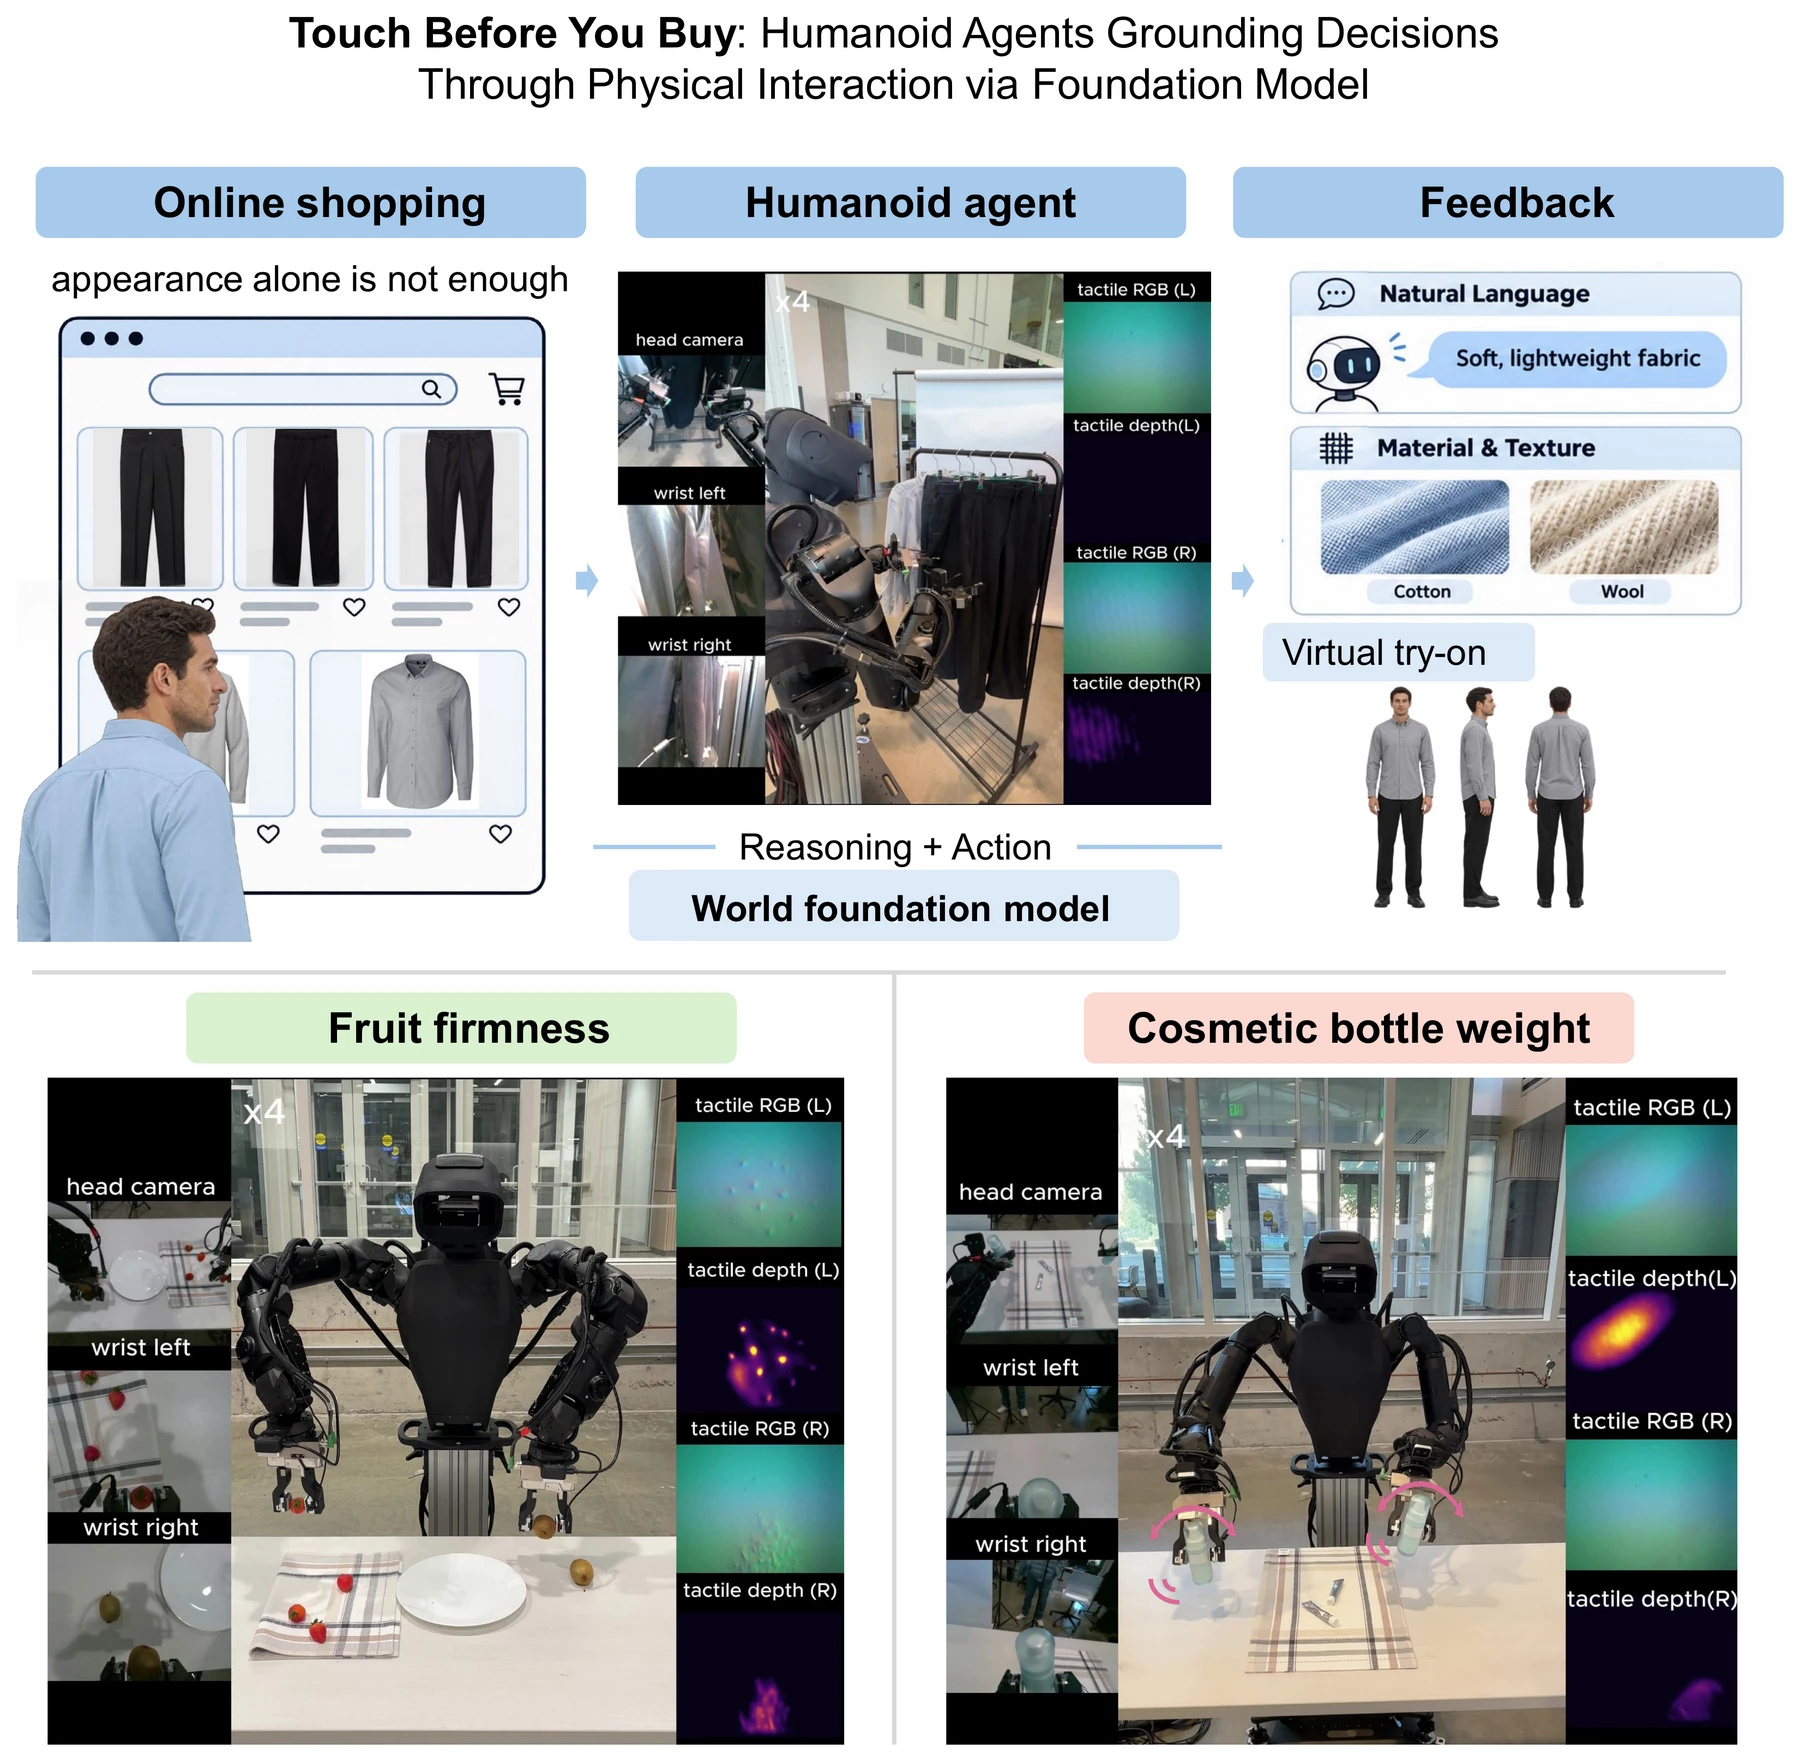
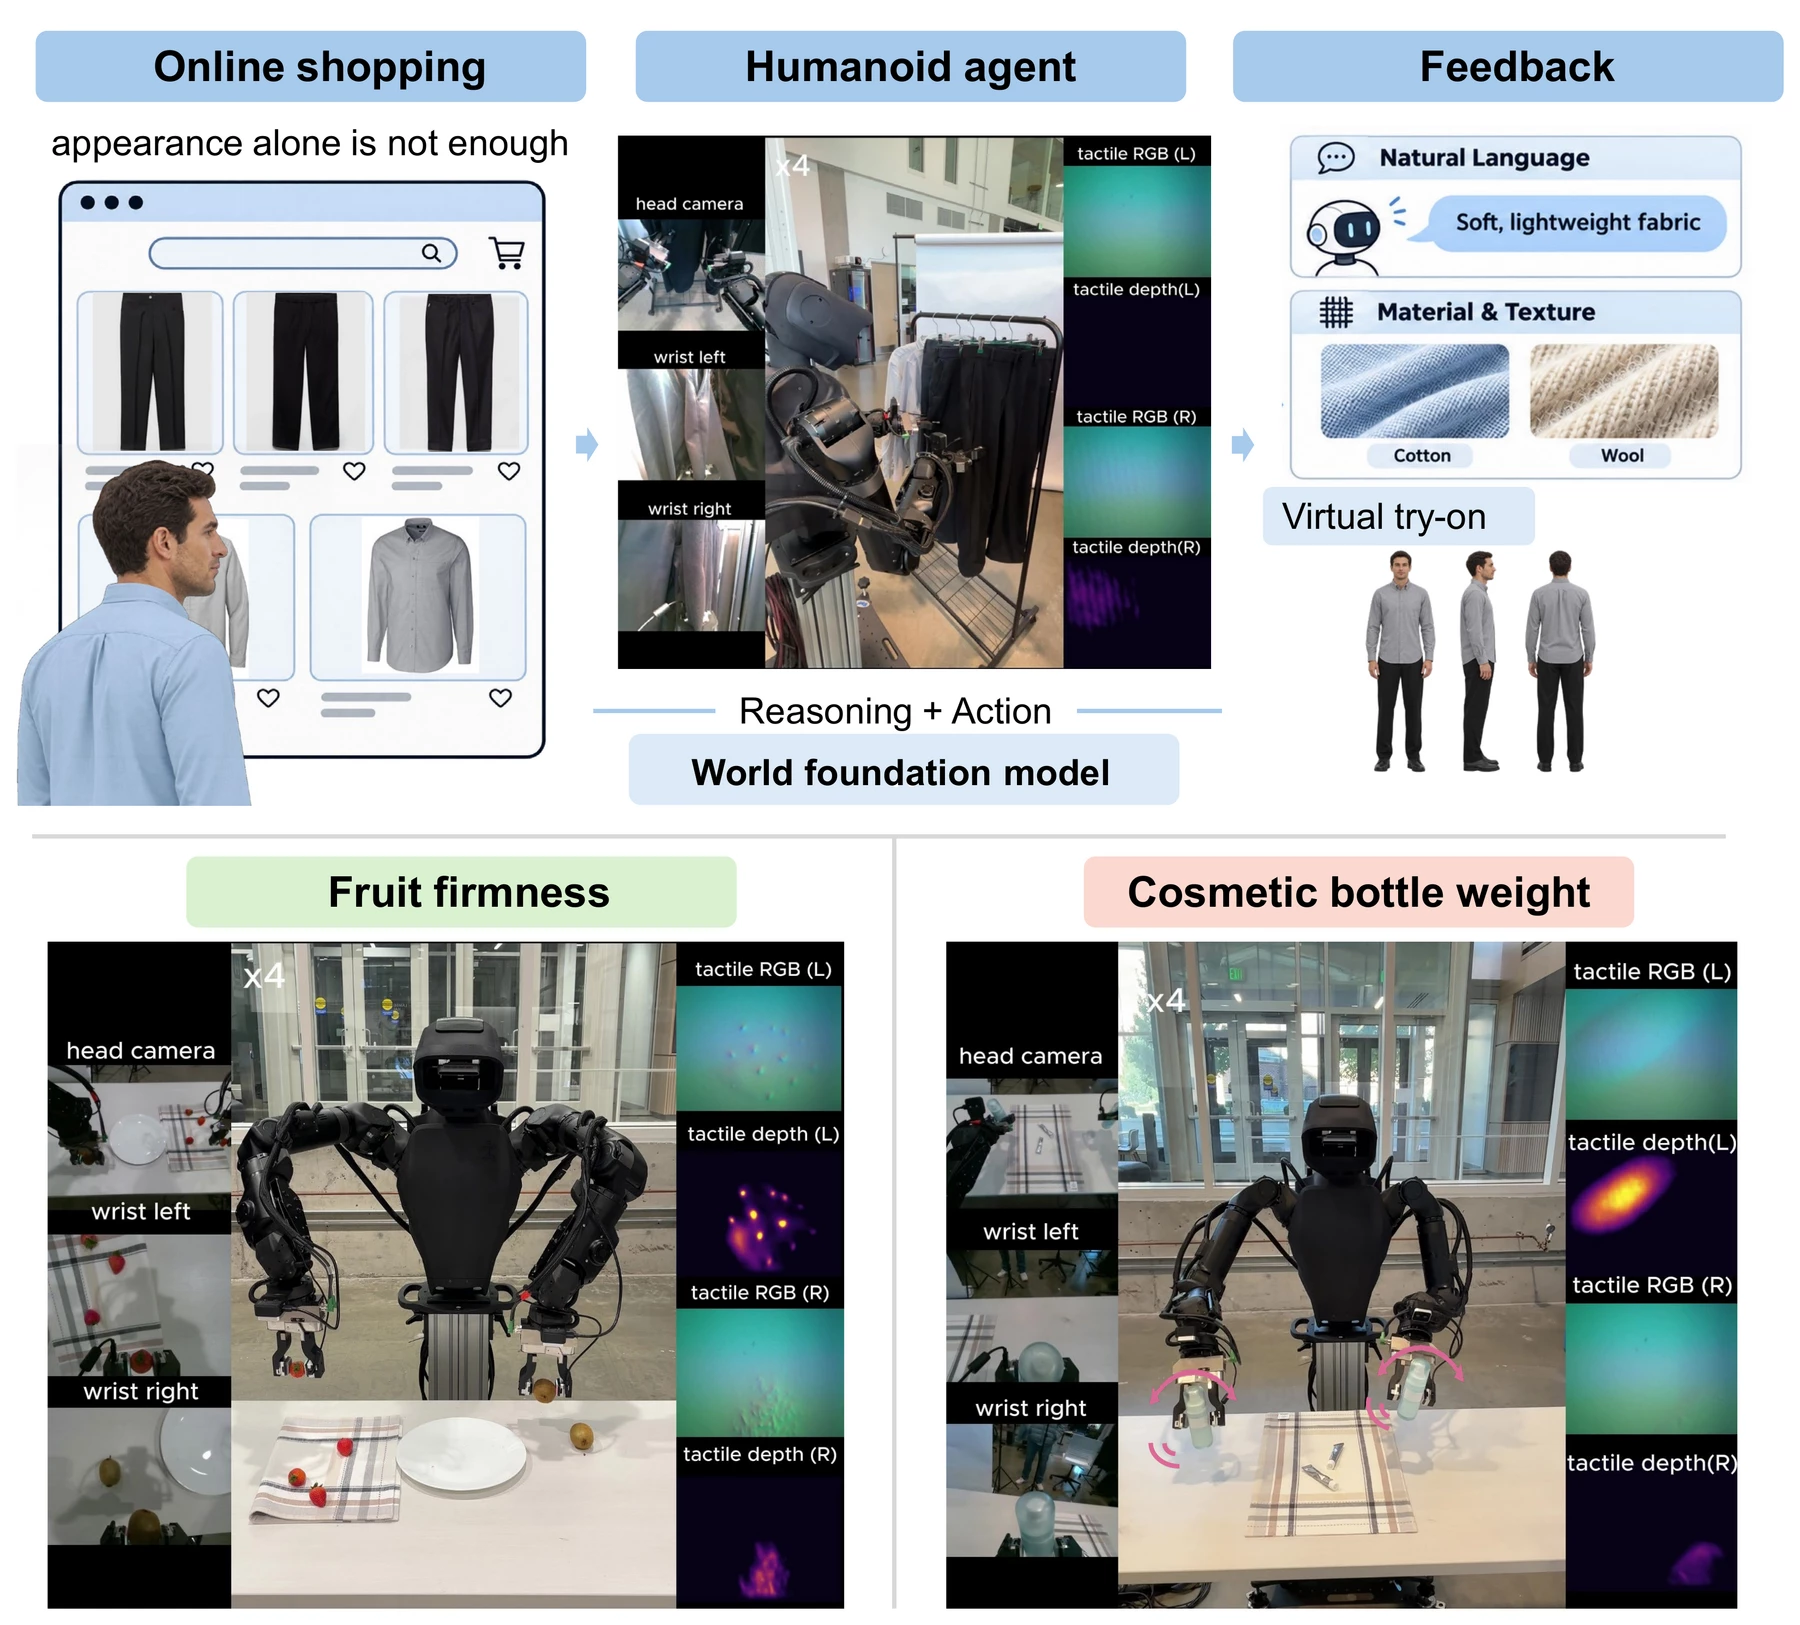
Show title as text, crop it from figure, link Yicong Wang
- Cut the title strip off the main figure image and show the title as
  larger page text in the same style, so it appears only once
- Move the video jump link below the figure
- Link Yicong Wang to the MARS lab people page
- Comment out the "paper (coming soon)" jump link

diff --git a/index.html b/index.html
@@ -18,28 +18,29 @@
 </nav>
 
 <header id="top">
+  <!-- Styled like the title in the main figure (the figure image has its title cropped off, so it shows only once) -->
   <h1 class="project-title">
     <span class="title-main">Touch Before You Buy:</span><br>
     <span class="title-sub">Humanoid Agents Grounding Decisions Through<br class="title-break"> Physical Interaction via Foundation Model</span>
   </h1>
 
-  <nav class="jump-links" aria-label="Project links">
-    <span class="jump-soon" title="Coming soon">paper (coming soon)</span>
-    <a href="#video-gallery">video</a>
-  </nav>
-
   <a class="figure-link" href="media/main_real_fig.pdf" target="_blank" rel="noopener noreferrer" aria-label="Open the full-resolution figure (PDF)">
-    <img src="media/main_real_fig.webp" class="content-media" width="1800" height="1761"
+    <img src="media/main_real_fig.webp" class="content-media" width="1800" height="1625"
       alt="Overview: a user shopping online asks a tactile-enabled humanoid agent, guided by a world foundation model, to inspect garments; the agent returns natural-language, material and texture, and virtual try-on feedback. The same system also assesses fruit firmness and cosmetic bottle weight.">
   </a>
   <p class="figure-note">Click the figure to open the full-resolution PDF.</p>
+
+  <nav class="jump-links" aria-label="Project links">
+    <!-- <span class="jump-soon" title="Coming soon">paper (coming soon)</span> -->
+    <a href="#video-gallery">video</a>
+  </nav>
 
   <div class="pub-row">
     <div class="pub-box">
       <p class="pub-title">Touch Before You Buy: Humanoid Agents Grounding Decisions Through Physical Interaction via Foundation Model</p>
       <p class="pub-authors">
         <a href="https://pokuangzhou.github.io/website/" target="_blank" rel="noopener noreferrer">Pokuang Zhou</a>,
-        <span>Yicong Wang</span>,
+        <a href="https://www.purduemars.com/people" target="_blank" rel="noopener noreferrer">Yicong Wang</a>,
         <a href="https://zhangzhiyuanzhang.github.io/personal_website/" target="_blank" rel="noopener noreferrer">Zhiyuan Zhang</a>,
         <a href="https://www.purduemars.com/people" target="_blank" rel="noopener noreferrer">Yu She</a>
       </p>

diff --git a/style.css b/style.css
@@ -22,26 +22,21 @@ h1 {
   margin: 0 0 6px;
 }
 
-/* Title: bold short name on top, full subtitle below */
+/* Title: matches the main figure's style (bold name, regular subtitle) */
 .project-title {
-  font-weight: 700;
-  letter-spacing: -1px;
-  line-height: 1.15;
-  margin-bottom: 0;
+  color: #000;
+  font-size: 38px;
+  line-height: 1.25;
+  letter-spacing: -0.3px;
+  margin: 8px 0 12px;
 }
 
 .title-main {
-  font-size: 46px;
+  font-weight: 700;
 }
 
 .title-sub {
-  display: inline-block;
-  margin-top: 8px;
-  font-size: 30px;
-  font-weight: 600;
-  letter-spacing: -0.5px;
-  line-height: 1.25;
-  color: #333;
+  font-weight: 400;
 }
 
 .jump-links {
@@ -391,12 +386,8 @@ pre {
 }
 
 @media (max-width: 700px) {
-  .title-main {
-    font-size: 28px;
-  }
-
-  .title-sub {
-    font-size: 21px;
+  .project-title {
+    font-size: 22px;
   }
 
   .title-break {
